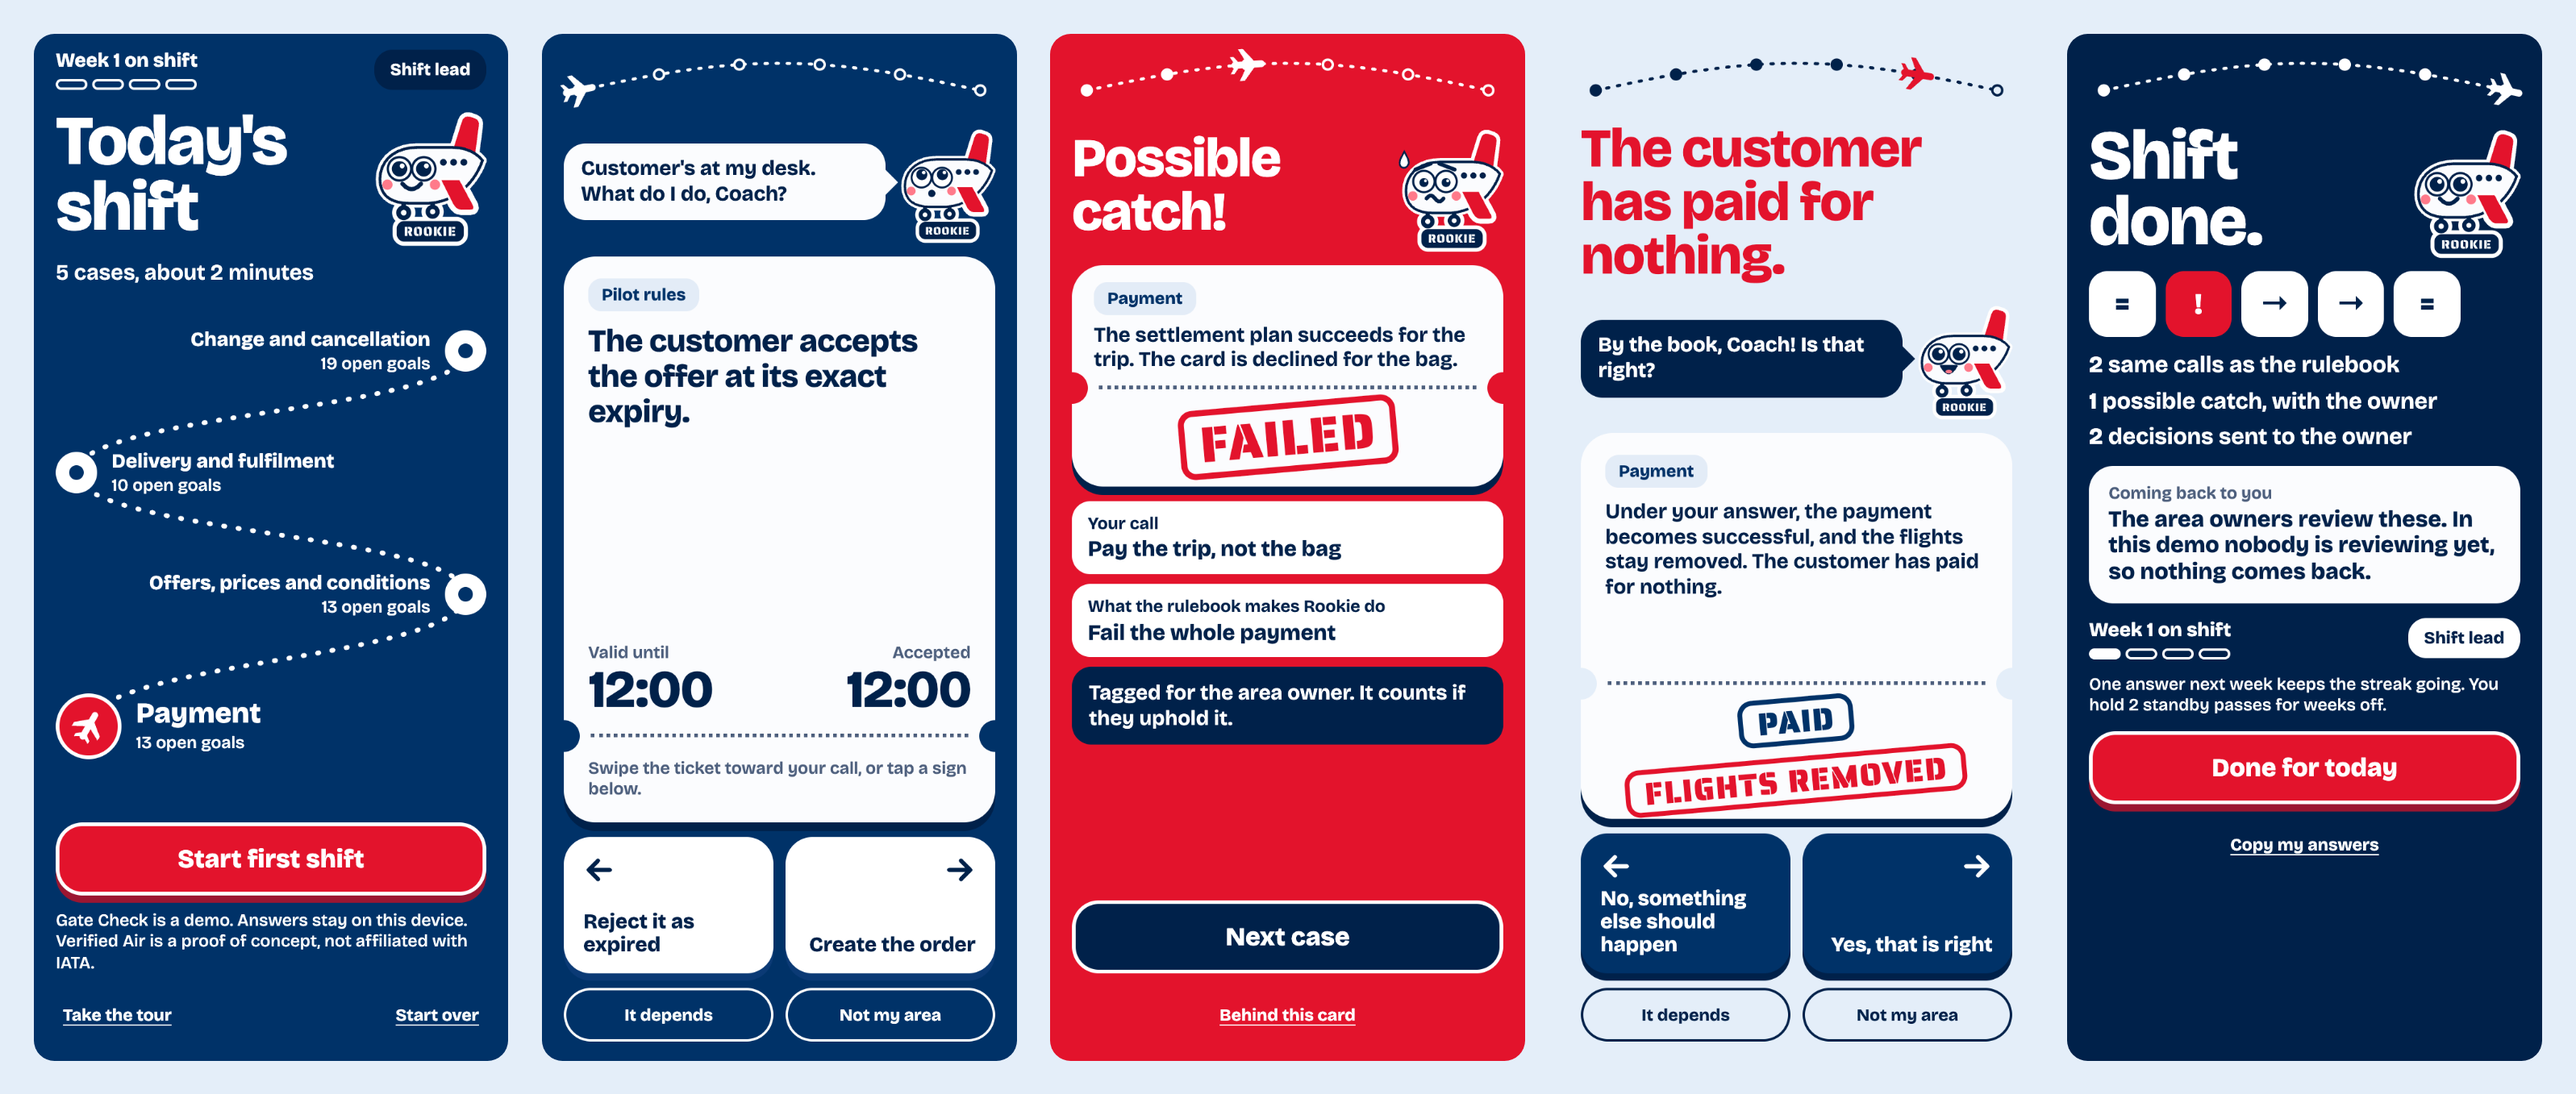
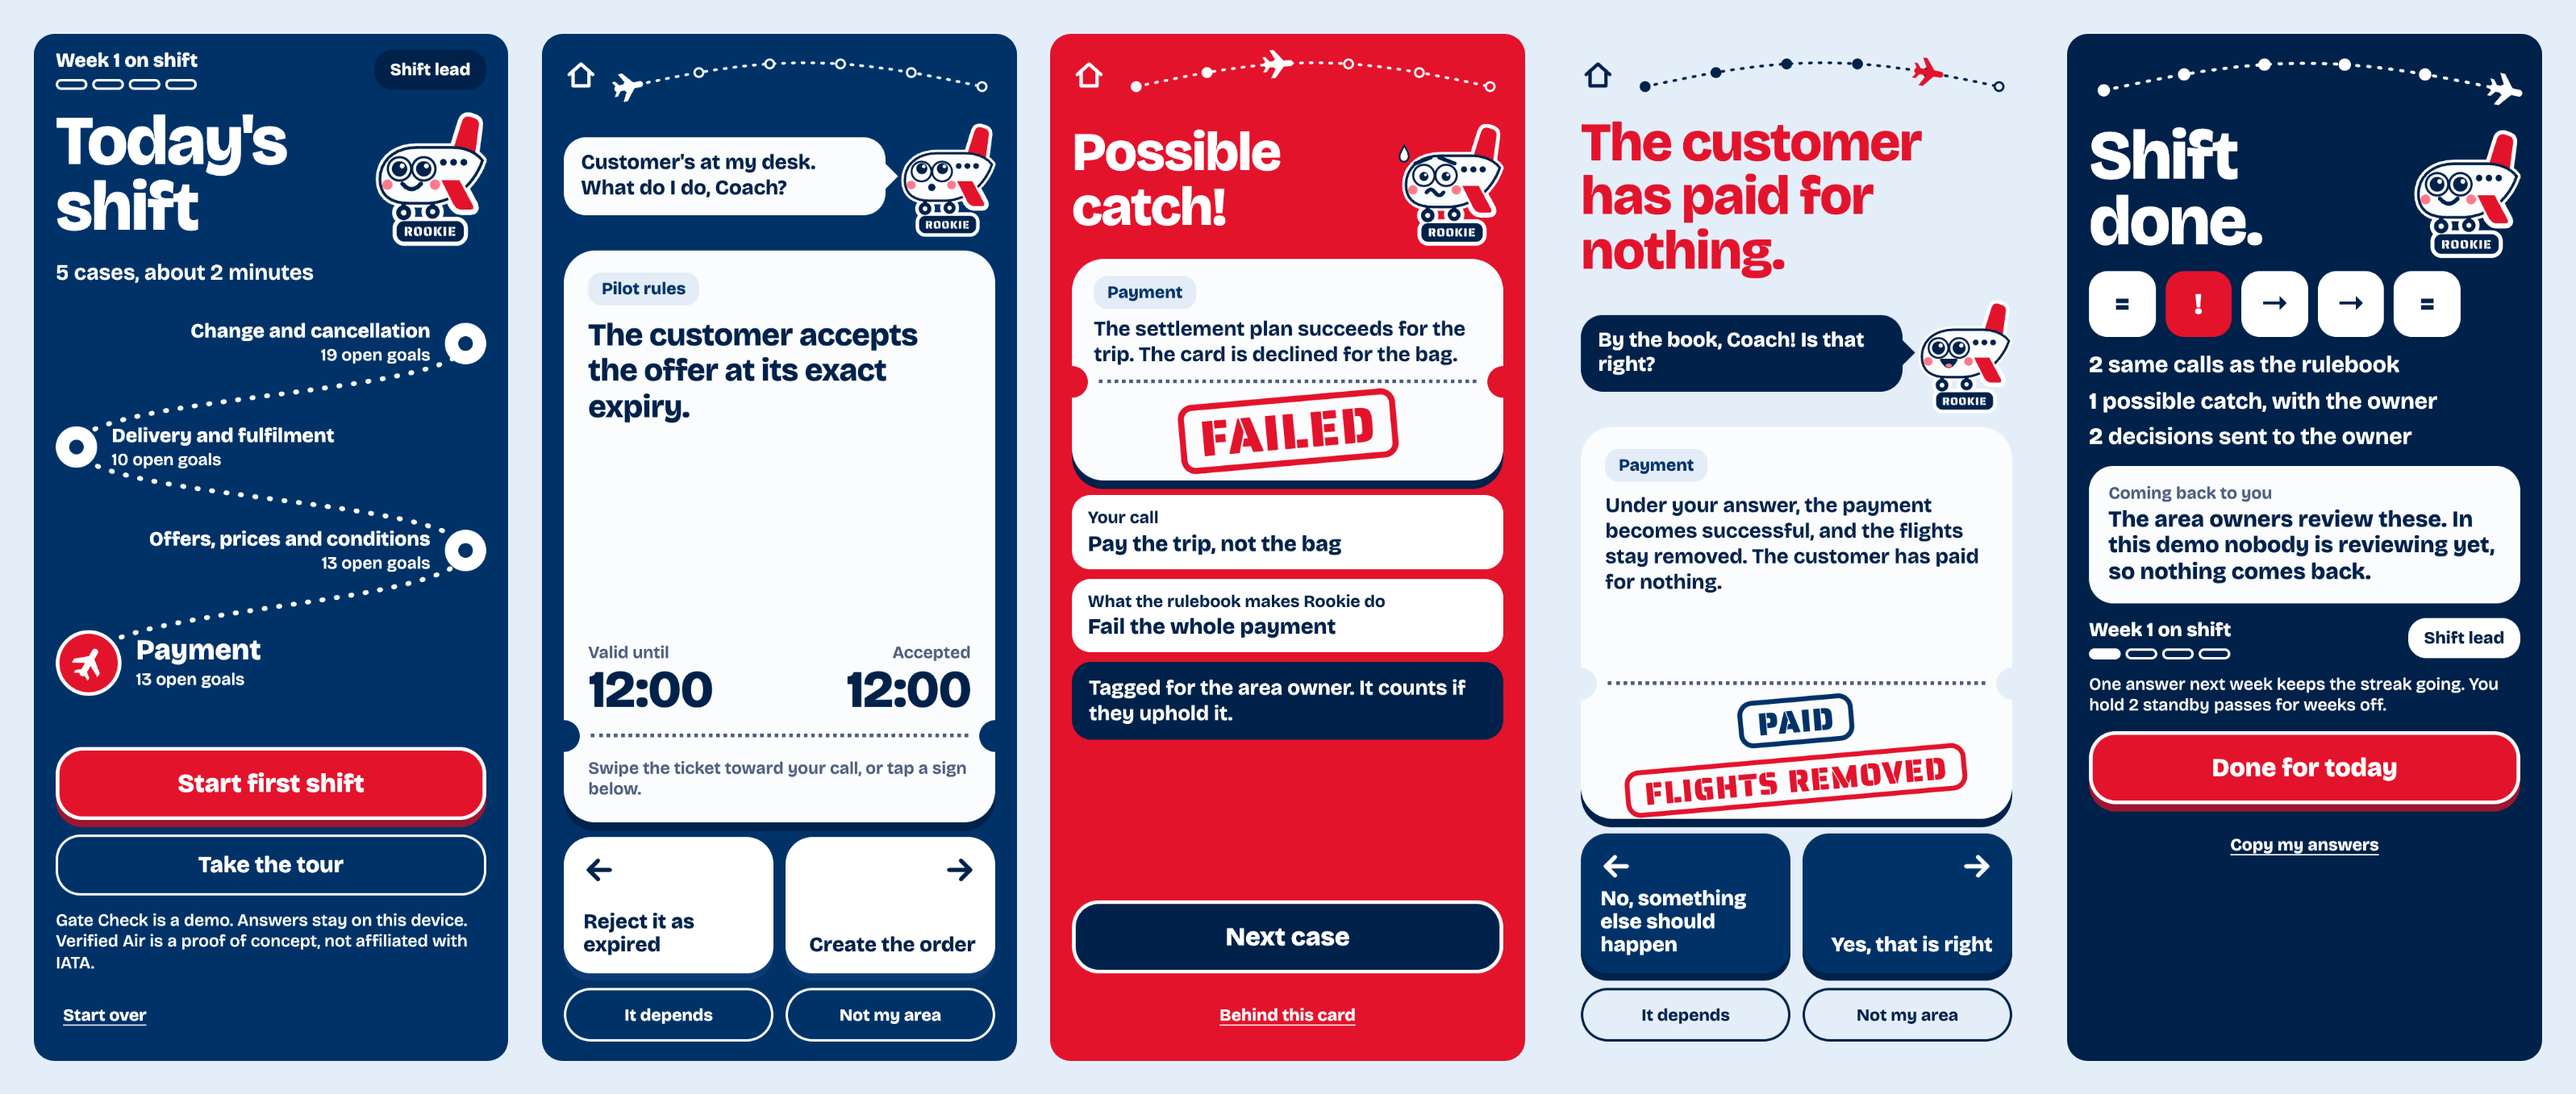
Add a way home from a shift and make the tour easier to find
Every case and result has a house button. Going home is navigation in the
page: the shift stays where it was, the answers are kept, and the home screen
offers to continue. Nothing in the session changes, so the model does not.

Start over clears the device, and it can now be reached during a shift, so it
asks first when there is anything to lose.

Take the tour is now a button under the main one.

Claude-Session: https://claude.ai/code/session_01XHgKYF5MzzJuWRdBHLiz9d

diff --git a/web/app.js b/web/app.js
@@ -167,6 +167,9 @@
     return window.drawRookie(mood, width);
   }
 
+  // Going home is only navigation: the shift stays exactly where it was, and the home screen offers to continue it.
+  const shiftTop = (done, total) => `<div class="shift-top"><button class="home-button" data-home aria-label="Home"><svg width="26" height="26" viewBox="0 0 24 24" aria-hidden="true"><path d="M3 11.5 L12 3.5 L21 11.5 M6 9.5 V20 H18 V9.5"/></svg></button>${route(done, total)}</div>`;
+
   const arrow = (dir) => `<svg width="26" height="26" viewBox="0 0 24 24" aria-hidden="true"><path d="${dir === "right" ? "M4 12 H20 M13 5 L20 12 L13 19" : "M20 12 H4 M11 5 L4 12 L11 19"}"/></svg>`;
   const stamp = (text, cls = "") => `<span class="stamp ${cls}">${esc(text)}</span>`;
 
@@ -224,6 +227,8 @@
 
   function renderHome() {
     const shift = DECK.shifts[state.shift];
+    const s = state.session;
+    const resuming = s.phase !== PHASE.INTRO;
     const stops = DECK.areas.map((area, i) => {
       const y = [84, 58, 34, 10][i];
       const node = i === 0 ? `<span class="node"><svg width="30" height="30" viewBox="-16 -16 32 32" aria-hidden="true"><g transform="rotate(-60)">${PLANE}</g></svg></span>` : '<span class="node"></span>';
@@ -232,11 +237,12 @@
     return `
       <div class="top"><div class="week">Week ${state.streak.weeks + 1} on shift${pips(weeksShown())}</div><span class="title-chip">${esc(titleNow())}</span></div>
       <div class="head-row"><h1 class="big">Today's shift</h1>${rookie("happy", 92)}</div>
-      <p class="sub">${state.session.length} cases, about 2 minutes</p>
+      <p class="sub">${resuming ? `Case ${s.index + 1} of ${s.length}. Your answers so far are saved.` : `${s.length} cases, about 2 minutes`}</p>
       <div class="map"><svg viewBox="0 0 100 100" preserveAspectRatio="none" aria-hidden="true"><path d="M7.6 84 C7.6 71 95.2 71 95.2 58 C95.2 46 4.8 46 4.8 34 C4.8 22 95.2 22 95.2 10"/></svg>${stops}</div>
-      <button class="main" data-start>Start ${esc(shift.name.toLowerCase())}</button>
+      <button class="main" data-start>${resuming ? "Continue" : "Start"} ${esc(shift.name.toLowerCase())}</button>
+      <button class="secondary" data-tour>Take the tour</button>
       <p class="fine">Gate Check is a demo. Answers stay on this device. Verified Air is a proof of concept, not affiliated with IATA.</p>
-      <div class="row"><button class="link" data-tour>Take the tour</button><button class="link" data-reset>Start over</button></div>`;
+      <div class="row"><button class="link" data-reset>Start over</button></div>`;
   }
 
   function renderCase(card) {
@@ -256,7 +262,7 @@
     } else {
       controls = `<div class="options">${card.choices.map((c, i) => `<button class="option" data-choice="${esc(c.id)}" data-key="${i + 1}">${esc(c.label)}</button>`).join("")}</div>`;
     }
-    return `${route(s.index, s.length)}
+    return `${shiftTop(s.index, s.length)}
       ${headline}
       <div class="say"><div class="bubble">${esc(card.say)}</div>${rookie(follow ? "proud" : "up", 78)}</div>
       <div class="ticket ${swipes ? "swipes" : ""}" ${swipes ? "data-swipe" : ""}>${upper(card, faceText(card))}<div class="tear"></div><div class="stub">${stub}</div></div>
@@ -320,7 +326,7 @@
     const s = state.session;
     const headline = HEADLINE[record.outcome];
     const text = card.dependsOn ? (card.headlines ? card.headlines[state.answers[card.dependsOn].choice] : faceText(card)) : faceText(card);
-    return `${route(s.index + 1, s.length)}
+    return `${shiftTop(s.index + 1, s.length)}
       <div class="head-row"><h1 class="big ${headline.length > 14 ? "long" : ""}">${esc(headline)}</h1>${rookie(MOOD[record.outcome], 84)}</div>
       <div class="ticket result"><div class="upper"><span class="tag">${esc(card.area)}</span><p class="case-text">${esc(text)}</p></div><div class="tear"></div><div class="stub"><div class="stamp-row">${resultStamp(card, record)}</div></div></div>
       <div class="body">${resultBody(card, record)}</div>
@@ -395,13 +401,8 @@
     } catch {
       /* As with the game's own state. */
     }
-    if (startShift && state.session.phase === PHASE.INTRO) {
-      buzz(18);
-      step(EVENT.START);
-      skipFollowUps();
-      save();
-    }
-    render();
+    if (startShift) startOrContinue();
+    else render();
   }
 
   function tourAnswered(card, choice) {
@@ -494,6 +495,35 @@
   }
 
   let shownAt = Date.now();
+  let atHome = false;
+
+  function startOrContinue() {
+    if (state.session.phase === PHASE.INTRO) {
+      buzz(18);
+      step(EVENT.START);
+      skipFollowUps();
+      save();
+    }
+    atHome = false;
+    render();
+  }
+
+  function startOver() {
+    state = fresh();
+    state.session.length = call("shift_length", DECK.shifts[0].cards.length);
+    atHome = false;
+    save();
+    render();
+  }
+
+  // Starting over clears the device, so it asks first if there is anything to lose.
+  function askStartOver() {
+    if (!Object.keys(state.answers).length && state.session.phase === PHASE.INTRO && state.shift === 0) {
+      startOver();
+      return;
+    }
+    openSheet(`<h2>Start over?</h2><p>This clears your answers, streak and title on this device, and goes back to the first shift.</p><div class="sheet-actions"><button data-close>Keep my answers</button><button class="go" data-confirm-reset>Start over</button></div>`);
+  }
 
   function drawTour() {
     const view = renderTour();
@@ -522,7 +552,7 @@
     let at;
     let surface;
     let card = null;
-    if (s.phase === PHASE.INTRO) {
+    if (s.phase === PHASE.INTRO || atHome) {
       at = "home"; surface = "asking"; html = renderHome();
     } else if (s.phase === PHASE.DONE) {
       at = "report"; surface = "report"; html = renderReport();
@@ -723,10 +753,9 @@
     }
     const card = state.session.phase === PHASE.ASKING || state.session.phase === PHASE.REVEALED ? currentCard() : null;
     if (target.dataset.start !== undefined) {
-      buzz(18);
-      step(EVENT.START);
-      skipFollowUps();
-      save();
+      startOrContinue();
+    } else if (target.dataset.home !== undefined) {
+      atHome = true;
       render();
     } else if (target.dataset.choice) {
       choose(card, target.dataset.choice, target.dataset.side || null);
@@ -746,10 +775,7 @@
     } else if (target.dataset.copy !== undefined) {
       copyAnswers(target);
     } else if (target.dataset.reset !== undefined) {
-      state = fresh();
-      state.session.length = call("shift_length", DECK.shifts[0].cards.length);
-      save();
-      render();
+      askStartOver();
     }
   });
 
@@ -758,6 +784,10 @@
     if (e.target === sheet) sheet.close();
     if (!target) return;
     if (target.dataset.close !== undefined) sheet.close();
+    if (target.dataset.confirmReset !== undefined) {
+      sheet.close();
+      startOver();
+    }
     if (target.dataset.saveDepends !== undefined) {
       const note = sheet.querySelector("#note").value.trim();
       const card = byId[sheet.dataset.card];
@@ -783,7 +813,7 @@
   document.addEventListener("keydown", (e) => {
     usingKeys = true;
     if (sheet.open || e.target.matches?.("input, textarea")) return;
-    if (tour ? tourStep() !== "case" : state.session.phase !== PHASE.ASKING) return;
+    if (tour ? tourStep() !== "case" : atHome || state.session.phase !== PHASE.ASKING) return;
     const card = tour ? practiceCard : currentCard();
     if (e.key === "ArrowLeft" || e.key === "ArrowRight") {
       const button = app.querySelector(`[data-side="${e.key === "ArrowLeft" ? "left" : "right"}"]`);

diff --git a/web/style.css b/web/style.css
@@ -158,6 +158,14 @@ a.main { display: flex; align-items: center; justify-content: center; text-decor
 .fine { flex: none; font-size: var(--type-label); line-height: 1.25; font-weight: 500; }
 .row { flex: none; display: flex; align-items: center; justify-content: space-between; gap: 8px; }
 
+/* Home, from inside a shift */
+.shift-top { flex: none; display: flex; align-items: center; gap: 6px; margin-left: -8px; }
+.shift-top .route { flex: 1 1 auto; width: auto; min-width: 0; }
+.home-button { flex: none; width: var(--touch-target); height: var(--touch-target); display: grid; place-items: center; padding: 0; border: 0; border-radius: 14px; background: transparent; color: inherit; }
+.home-button svg { fill: none; stroke: currentColor; stroke-width: 2.6; stroke-linecap: round; stroke-linejoin: round; }
+
+.secondary { flex: none; width: 100%; min-height: 50px; border: 2px solid currentColor; border-radius: 20px; background: transparent; color: inherit; font-size: min(19px, 4.8vw); font-weight: 750; }
+
 /* Tour */
 .tour-gap { flex: 1 1 auto; }
 .tour-items { flex: none; display: flex; flex-direction: column; gap: 14px; }

diff --git a/docs/strategy.md b/docs/strategy.md
@@ -21,7 +21,7 @@ Twelve of the eighteen mechanics below are fully built. Two more are partly buil
 | Short shift | Attention is the scarce resource | Five cases with no timer, and then the game stops | `new_respects_limit`, `every_shift_finishes` | Built |
 | Blind call | A reward for being right teaches agreement | A case shows nothing about the rule's result until you answer | `face_hides_outcome` | Built |
 | Swapped sides | Habit can replace reading | Answers change sides between cases, and a yes stays on the right | `sides_balance_across_seeds`, `yes_stays_on_the_right` | Built |
-| Ways out | [Fixation on the game hurts](https://arxiv.org/abs/2203.16175) | "It depends" and "Not my area" work on every case, at no cost | `escapes_always_work`, `no_dead_ends` | Built |
+| Ways out | [Fixation on the game hurts](https://arxiv.org/abs/2203.16175) | "It depends" and "Not my area" work on every case, at no cost. A home button leaves a shift at any point and keeps your answers | `escapes_always_work`, `no_dead_ends` | Built |
 | Check cards | A direct test of care | A rule changed to be wrong. Flagging it says so | `recording_keeps_title` | Built |
 | Route map | [Duolingo's path](https://blog.duolingo.com/new-duolingo-home-screen-design/) and Lean's goals left | A route across the areas, with open goals counted by the build | None needed | Built |
 | Weekly streak | [Duolingo's streak](https://blog.duolingo.com/improving-the-streak) | One case a week keeps it, and "Not my area" counts | `one_answer_extends` | Built, on the device |

diff --git a/CLAUDE.md b/CLAUDE.md
@@ -33,6 +33,7 @@ A phone game for reviewing the Verified Air rules, with its own Lean model. The 
 - An answer changes no status. Don't write copy that implies it does.
 - Rookie calls the expert Coach. Rookie's mistakes belong to the rulebook, and the game never tells an expert they are wrong.
 - The game is called Gate Check. Internal names such as `review_game`, `review-game-*` and the `RG-` requirement IDs keep the old name, because renaming them means redoing the Rust proof.
+- Going home from a shift is navigation in the page. It changes nothing in the session, so it is not an event in the model. Starting over clears the device, so it asks first.
 - Rookie is a little jet, drawn once in `web/rookie.js`. Its eyes stay round and open in every mood, and it wears no cap: an earlier version with closed curved eyes and a cap could read as an ethnic caricature. Check any new character for that.
 - Reward what cannot be farmed: nothing pays for volume or speed.
 - Quote nothing from the EASD guide. Say "an example shows the rule breaking it", never "Lean found".

diff --git a/README.md b/README.md
@@ -19,6 +19,8 @@ npm start
 
 A first visit starts with a short tour, which practises on a real rule and records nothing. It is on the home screen afterwards, and `?tour` opens it directly.
 
+The house at the top of a case or result goes home. The shift stays where it was, and the home screen offers to continue it. Start over clears the device, so it asks first.
+
 Swipe a ticket toward your call, or tap a sign. On a keyboard, use the left and right arrows, 1 to 4 for a list of choices, D for "It depends" and N for "Not my area".
 
 To check a phone, open "Behind this card" on any result and run the check. It replays every case the model wrote through the engine running on that device.
